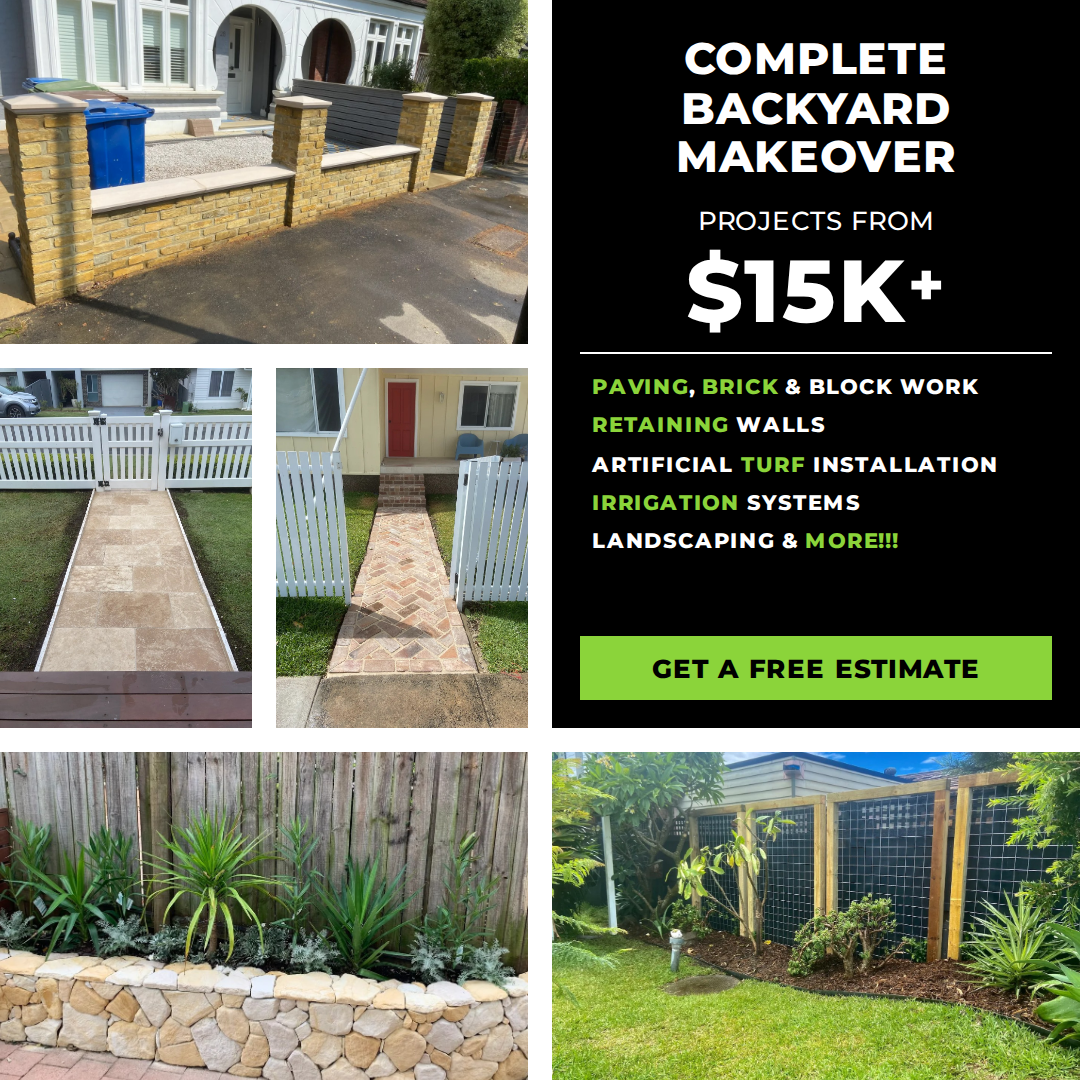
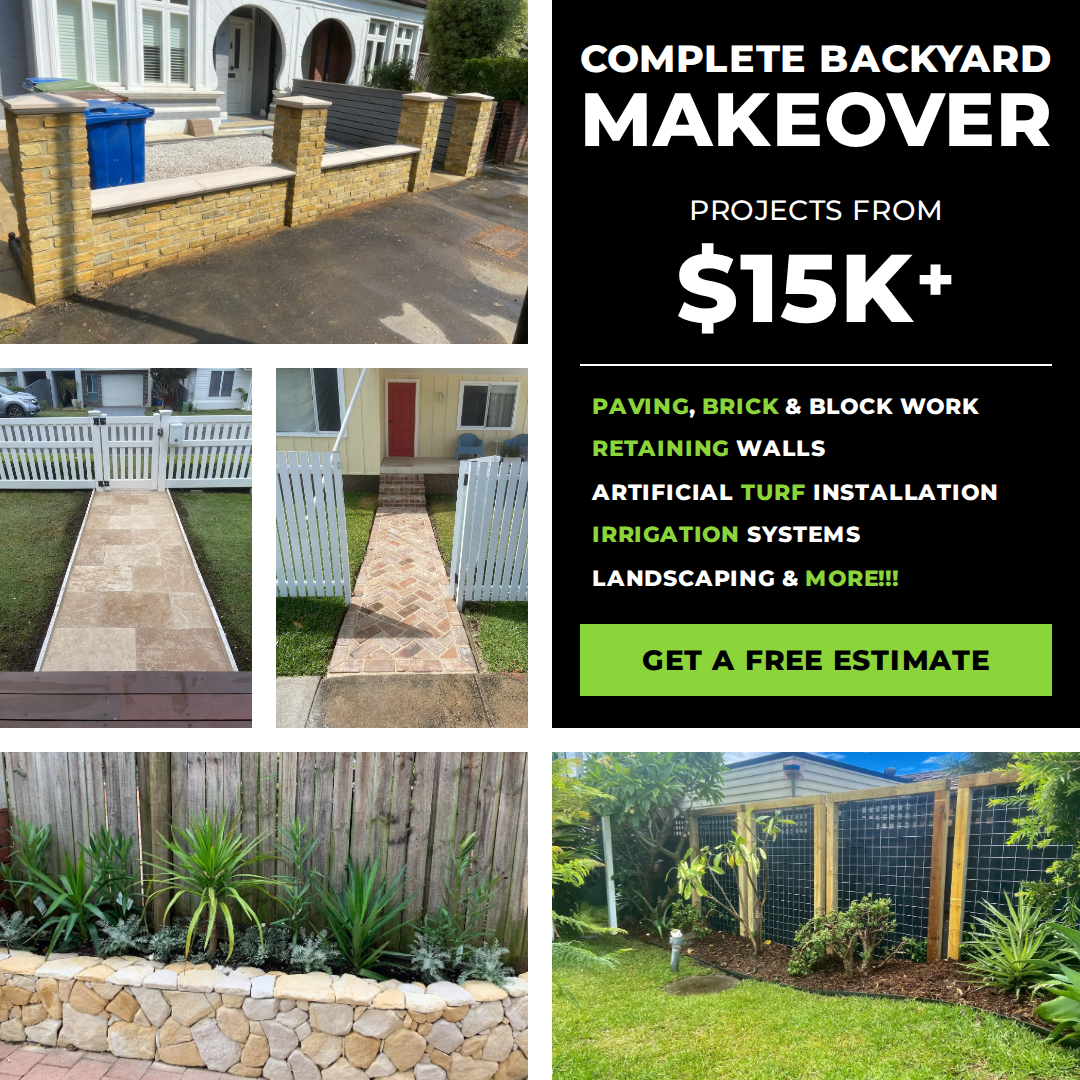
Fit ad headline to full panel width and rebalance panel spacing
Claude-Session: https://claude.ai/code/session_01Kp3iAUfScQwAQYUi1SKLzt

Changed region(s): [[0.5194, 0.0306, 0.9778, 0.55], [0.5194, 0.5806, 0.9778, 0.6722]]

diff --git a/ad/ad.html b/ad/ad.html
@@ -11,7 +11,7 @@
   .ad {
     width: 540px; height: 540px; background: #fff; padding: 0;
     display: grid; gap: 12px;
-    grid-template-columns: 1fr 1fr;
+    grid-template-columns: minmax(0, 1fr) minmax(0, 1fr);
     grid-template-rows: 172px 1fr 164px;
     grid-template-areas:
       "p1 panel"
@@ -28,33 +28,34 @@
   .p4 { grid-area: p4; background-image: url(images/garden-screen-turf.jpg); background-position: center 55%; }
   .panel {
     grid-area: panel; background: #000; color: #fff;
-    padding: 18px 14px 14px; text-align: center;
+    padding: 20px 14px 16px; text-align: center;
     display: flex; flex-direction: column; align-items: center;
   }
   h1 {
-    font-weight: 800; font-size: 22px; line-height: 1.12;
-    letter-spacing: 0.5px; text-transform: uppercase;
+    align-self: stretch; min-width: 0; font-weight: 800; line-height: 1.05;
+    letter-spacing: 0.3px; text-transform: uppercase;
   }
+  h1 .fit { display: block; white-space: nowrap; }
   .sub {
-    margin-top: 10px; font-weight: 500; font-size: 13px; line-height: 1.3;
+    margin-top: 16px; font-weight: 500; font-size: 14px; line-height: 1.3;
     letter-spacing: 0.3px; text-transform: uppercase;
   }
   .price {
-    margin-top: 4px; font-weight: 800; font-size: 44px; line-height: 1;
+    margin-top: 6px; font-weight: 800; font-size: 48px; line-height: 1;
     letter-spacing: 1px;
   }
-  .price small { font-size: 30px; vertical-align: 8px; margin-left: 1px; }
-  .rule { width: 100%; height: 1px; background: #fff; margin: 9px 0 7px; }
+  .price small { font-size: 32px; vertical-align: 10px; margin-left: 1px; }
+  .rule { width: 100%; height: 1px; background: #fff; margin: 14px 0 10px; }
   ul { list-style: none; align-self: stretch; text-align: left; padding-left: 6px; }
   li {
-    font-weight: 800; font-size: 10.5px; line-height: 1.85;
+    font-weight: 800; font-size: 11px; line-height: 1.95;
     letter-spacing: 0.4px; text-transform: uppercase;
   }
   .g { color: #8BD43A; }
   .cta {
     margin-top: auto; align-self: stretch;
-    background: #8BD43A; color: #000; font-weight: 800; font-size: 13px;
-    letter-spacing: 0.6px; text-transform: uppercase; padding: 8px 0;
+    background: #8BD43A; color: #000; font-weight: 800; font-size: 14px;
+    letter-spacing: 0.6px; text-transform: uppercase; padding: 9px 0;
   }
 </style>
 </head>
@@ -62,7 +63,7 @@
   <div class="ad" id="ad">
     <div class="photo p1"></div>
     <div class="panel">
-      <h1>Complete Backyard<br>Makeover</h1>
+      <h1><span class="fit">Complete Backyard</span><span class="fit">Makeover</span></h1>
       <div class="sub">Projects from</div>
       <div class="price">$15K<small>+</small></div>
       <div class="rule"></div>
@@ -79,5 +80,17 @@
     <div class="photo p3"></div>
     <div class="photo p4"></div>
   </div>
+<script>
+  // Scale each headline line so it spans the panel's full text width.
+  document.fonts.ready.then(() => {
+    document.querySelectorAll('h1 .fit').forEach(el => {
+      const target = el.parentElement.clientWidth;
+      el.style.fontSize = '20px';
+      el.style.display = 'inline-block';
+      el.style.fontSize = (20 * target / el.offsetWidth) + 'px';
+      el.style.display = 'block';
+    });
+  });
+</script>
 </body>
 </html>
